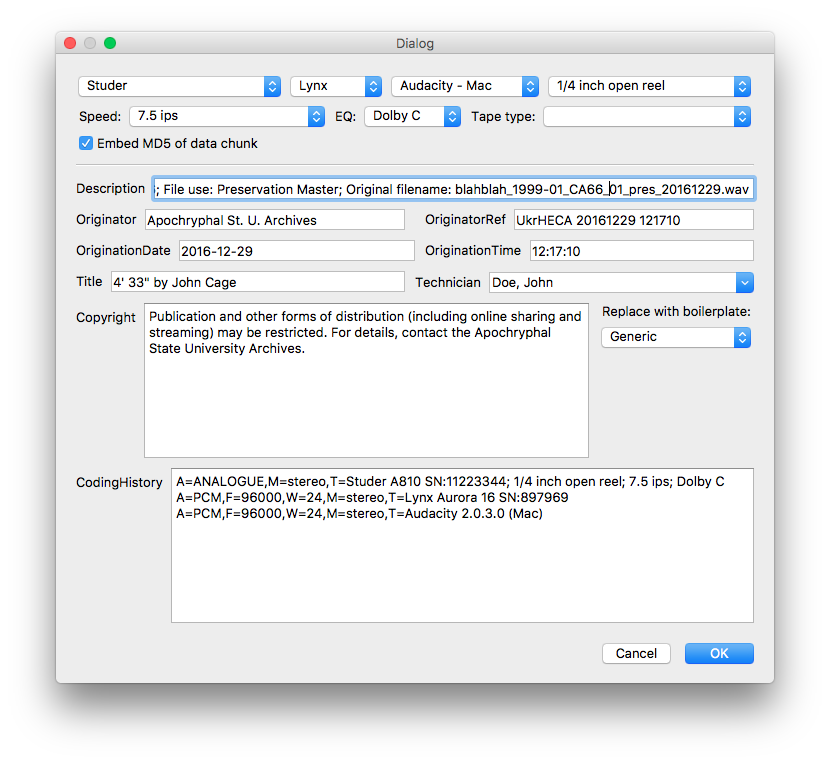
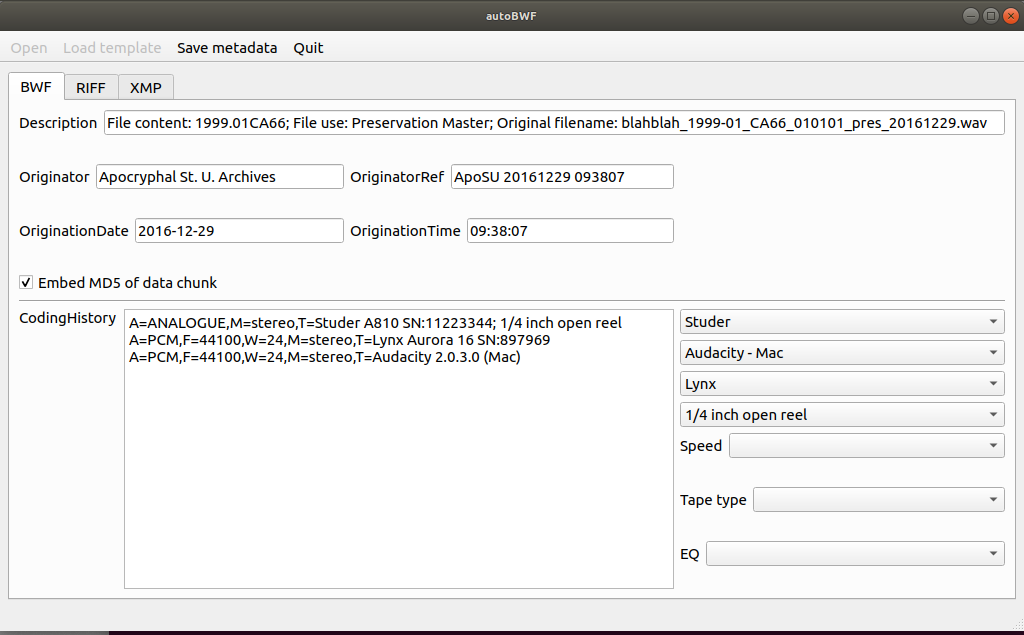
update README and cosmetic fixes

diff --git a/autoBWF.py b/autoBWF.py
@@ -60,6 +60,7 @@ class MainWindow(QtWidgets.QMainWindow, Ui_autoBWF):
         if filename:
             self.tabWidget.setEnabled(True)
             self.actionUpdate_metadata.setEnabled(True)
+            self.actionOpen.setEnabled(False)
             self.populateFileInfo(filename)
 
         if template:

diff --git a/README.md b/README.md
@@ -2,18 +2,33 @@
 
 ## A GUI tool for automatically generating and editing BWF metadata
 
-The purpose of autoBWF is to provide an alternative GUI for embedding internal metadata in WAVE audio files using the [Broadcast Wave](https://en.wikipedia.org/wiki/Broadcast_Wave_Format) standard and the FADGI [BWFMetaEdit](https://mediaarea.net/BWFMetaEdit). Unlike the existing BWFMetaEdit GUI, autoBWF is extremely opinionated and will try to automatically generate metadata content based on file naming conventions and system metadata. In addition, it can copy metadata fields from a template file to avoid having to enter the same information multiple times for several master or derivative files of the same physical instantiantion.
+The purpose of autoBWF is to provide an alternative GUI for embedding internal metadata in WAVE audio files using the [Broadcast Wave](https://en.wikipedia.org/wiki/Broadcast_Wave_Format) standard, FADGI [BWFMetaEdit](https://mediaarea.net/BWFMetaEdit), and [XMP](https://en.wikipedia.org/wiki/Extensible_Metadata_Platform). 
+
+Unlike the existing BWFMetaEdit GUI, autoBWF is extremely opinionated and will automatically generate metadata content based on file naming conventions and system metadata. In addition, it can copy metadata fields from a template file to avoid having to enter the same information multiple times for several master or derivative files of the same physical instantiantion.
 
 
-![screenshot of GUI](autoBWF2.png)
+![screenshot of GUI](screenshot.png)
 
 
 ### Requirements
 
-This code requires Python 3, PyQt 5, and [BWFMetaEdit](https://mediaarea.net/BWFMetaEdit/Download) CLI. It assumes that the "bwfmetaedit" executable is in the current PATH. It has been tested on Linux and Mac OS using bwfmetaedit version 1.3.3. If you want to run on Windows, then you're on your own...
+This code requires 
+* Python 3
+* PyQt 5 
+* [Python XMP Toolkit](http://python-xmp-toolkit.readthedocs.io/en/latest/index.html#) ([github](https://github.com/python-xmp-toolkit/python-xmp-toolkit))
+  * which in turn requires the [Exempi library](https://libopenraw.freedesktop.org/wiki/Exempi/)
+* [BWFMetaEdit](https://mediaarea.net/BWFMetaEdit/Download) CLI. 
+
+It assumes that the "bwfmetaedit" executable is in the current PATH. It has been tested on Linux using bwfmetaedit version 1.3.3. It should also run on Unix-like systems such as MacOS. 
+
+If you want to run on Windows, then you're on your own... Windows users may face challenges getting Exempi installed. If you want to use the BWF and RIFF editing capabilities without XMP, please try using the [2.1 version](https://github.com/Ukrainian-History/autoBWF/releases/tag/v2.1)
 
 
 ### Usage
+
+python autoBWF.py
+
+Alternatively, you can avoid using the "Open" dialog by specifying the target file and (optional) template file on the command line:
 
 python autoBWF.py *target_filename* [-t *template_filename*]
 
@@ -21,9 +36,9 @@ autoBWF will prepopulate the Description, Originator, OriginationDate, Originati
 
 The CodingHistory text is generated automatically based on the selections made in the drop-downs to the right of the text box. You can also edit the text manually, but be aware that using the drop-down menus will undo any manual edits that you have made. Similarly, the Copyright text is replaced with the boilerplate corresponding to the dropdown menu selection. The same caveat regarding manual editing holds here as well.
 
-Including the optional -t flag will prepopulate the contents of the Title, Technician, Source, Copyright, and Coding History text fields with the corresponding BWF metadata contained in *template_filename*. These can always be edited before updating the metadata in the target file.
+Loading a template file (either using the "Load Template" button or using the optional `-t` command line argument) will prepopulate the contents of the Title, Technician, Source, Copyright, Coding History, and any XMP text fields with the corresponding metadata contained in *template_filename*. These can always be edited before updating the metadata in the target file.
 
-It is strongly recommended that you play around using test files and confirm using BWFMetaEdit that autoBWF is behaving the way that you expect before working with preservation or production master files.
+It is strongly recommended that you play around using test files and confirm (using BWFMetaEdit and/or an internal metadata viewer like exiftool) that autoBWF is behaving the way that you expect before working with preservation or production master files.
 
 ### Configuration
 
@@ -31,18 +46,6 @@ You can edit the file config.json to customize the values in the dropdown menus 
 
 The bwfmetaedit "--accept-nopadding" flag is used by default, but that behavior can also be changed in the configuration file.
 
-### Metadata fields
-
-The text box labels in the GUI correspond directly to BWF metadata field names, with the exception of the following:
-
-| autoBWF label | BWF field name |
-| --- | --- |
-| Title | INAM |
-| Technician | ITCH |
-| Copyright | ICOP |
-| Creation Date | ICRD |
-| Source | ISRC |
-| Comment | ICMT |
 
 #### Automatic metadata generation details
 
@@ -51,6 +54,6 @@ The text box labels in the GUI correspond directly to BWF metadata field names, 
 
 #### Known issues
 
-does not remove existing XMP metadata fields (i.e. setting a field to "" causes the existing data to remain unchanged)
+* Does not remove existing XMP metadata fields (i.e. setting a field to "" causes the existing data to remain unchanged)
 
-for some reason, XMP dc:description shows up as RIFF ISBJ in BWFMetaEdit
+* For some reason, XMP dc:description shows up as RIFF ISBJ in BWFMetaEdit. This may or may not be a bug...
